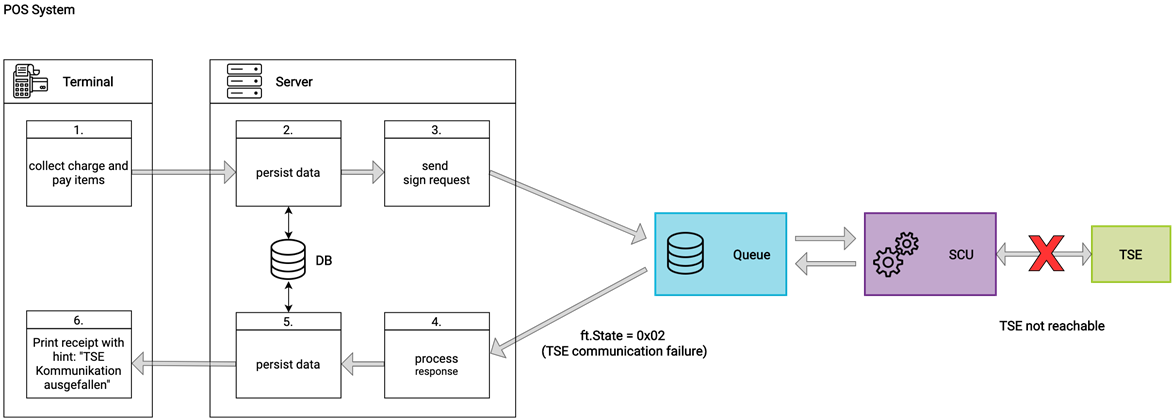
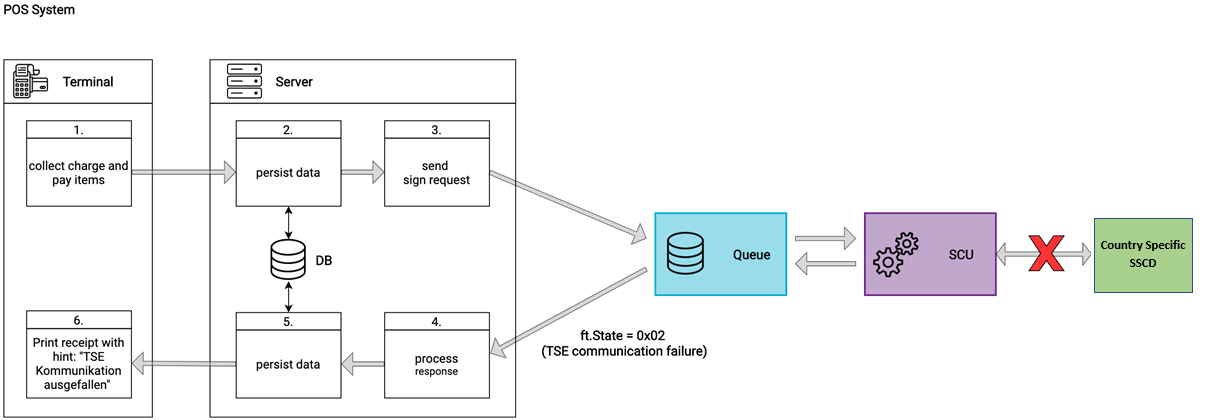
some corrections to graphics

Changed region(s): [[0.0, 0.1244, 1.0, 1.0], [0.8601, 0.7464, 0.9522, 0.8086], [0.0, 0.0, 0.0614, 0.0622]]

diff --git a/doc/general/cash-register-integration/cash-register-integration-failure-scencarios.md b/doc/general/cash-register-integration/cash-register-integration-failure-scencarios.md
@@ -22,14 +22,11 @@ After fiskaltrust.Middleware has received an "end of failure receipt", the statu
 ![](./images/09-end-late-signing-mode.png)
 
 #### Failure of the Signature Creation Unit
-If the communication with the Signature Creation Unit fails, the POS System can continue to operate until the SCU is accessible again. Receipts created in a state where no communication is possible with the TSE device are protected by the security mechanism of fiskaltrust.The fiskaltrust.Middleware will respond with the ftState = 0x02 "SCU communication failed". The POS System receives the response and processes the data it contains. For following Requests no more communication attempts are done to avoid long waiting times for each Receipt request/Receipt response sequence.
+If the communication to the secure Signature Creation Device fails, the POS System can continue to operate until the SSCD is accessible again. Receipts created in a state where no communication is possible with the SSCD device are protected by the security mechanism of fiskaltrust.The fiskaltrust.Middleware will respond with the ftState = 0x02 "SSCD communication failed". The POS System receives the response and processes the data it contains. For following Requests no more communication attempts are done to avoid long waiting times for each Receipt request/Receipt response sequence.
 
 
 ![](./images/10-no-scu-connection.png)
   
-When the SCU is reachable again, a Zero-Receipt must be sent, which forces a communication retry towards the TSE device. If the fiskaltrust.Middleware is able to connect to the SCU again, the ftState = 0x00 (ok) is returned to the POS system via the response and the fiskaltrust.Middleware is ready for normal operation again. Furthermore, the response contains a listing of the requests that were not signed by the TSE. The requests affected by the failure of the communication with the SCU do not have to be sent to the Queue again after the problem has been resolved.
+When the SSCD is reachable again, a Zero-Receipt must be sent, which forces a communication retry towards the SSCD device. If the fiskaltrust.Middleware is able to connect to the SSCD again, the ftState = 0x00 (ok) is returned to the POS system via the response and the fiskaltrust.Middleware is ready for normal operation again. Furthermore, the response contains a listing of the requests that were not signed by the TSE. The requests affected by the failure of the communication with the SCU do not have to be sent to the Queue again after the problem has been resolved.
 
 ![](./images/11-reestablished-connection.png)
-
-
-
